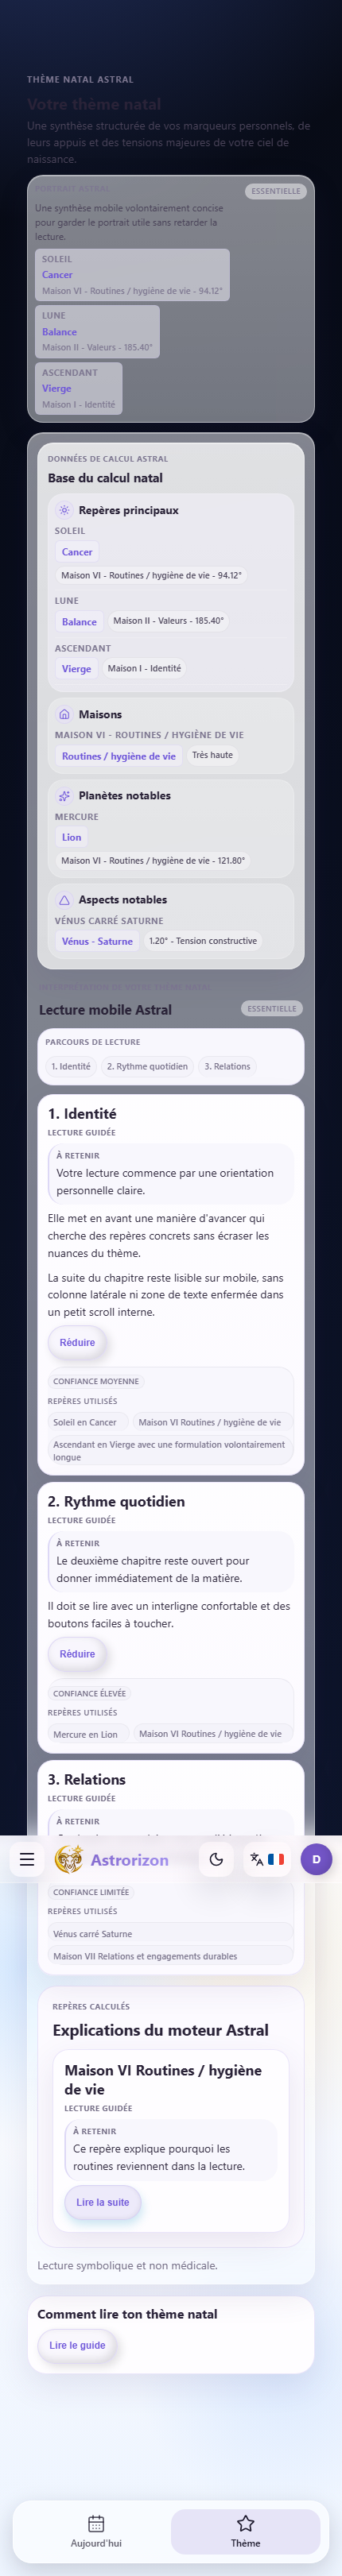
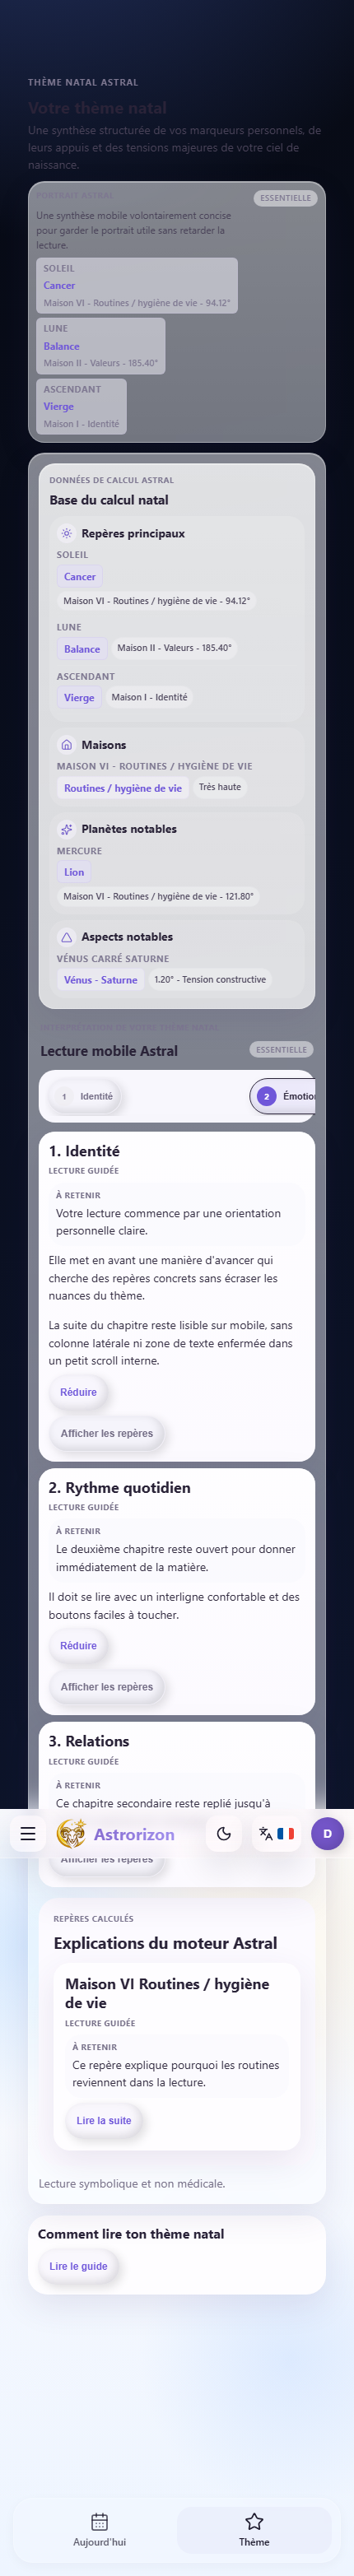
refine natal mobile styling

diff --git a/frontend/src/pages/NatalChartPage.css b/frontend/src/pages/NatalChartPage.css
@@ -13,11 +13,11 @@
   --natal-surface-reading: color-mix(in srgb, var(--color-token-rgb-255-255-255) 86%, var(--color-token-rgb-248-243-255) 14%);
   --natal-surface-reading-soft: color-mix(in srgb, var(--color-token-rgb-255-255-255) 72%, var(--color-token-rgb-244-237-255) 28%);
   --natal-surface-reading-muted: color-mix(in srgb, var(--premium-accent-purple-strong) 5%, var(--color-token-rgb-255-255-255) 95%);
-  --natal-border-data: var(--premium-glass-border-soft);
-  --natal-border-reading: color-mix(in srgb, var(--premium-accent-purple-strong) 14%, var(--premium-glass-border-soft));
-  --natal-border-section: var(--premium-glass-border);
-  --natal-border-block: var(--premium-glass-border-soft);
-  --natal-border-accent: color-mix(in srgb, var(--premium-accent-purple-strong) 20%, var(--premium-glass-border-soft));
+  --natal-border-data: color-mix(in srgb, var(--premium-glass-border-soft) 62%, transparent);
+  --natal-border-reading: color-mix(in srgb, var(--premium-accent-purple-strong) 9%, var(--premium-glass-border-soft) 56%, transparent);
+  --natal-border-section: color-mix(in srgb, var(--premium-glass-border) 68%, transparent);
+  --natal-border-block: color-mix(in srgb, var(--premium-glass-border-soft) 58%, transparent);
+  --natal-border-accent: color-mix(in srgb, var(--premium-accent-purple-strong) 14%, var(--premium-glass-border-soft) 54%, transparent);
   --natal-radius-section: var(--premium-radius-card);
   --natal-radius-block: var(--radius-lg);
   --natal-radius-badge: var(--radius-full);
@@ -44,6 +44,7 @@
   --natal-type-reading-text-size: var(--natal-type-body-size);
   --natal-type-reading-text-weight: var(--type-body-weight);
   --natal-type-reading-text-line-height: var(--natal-type-body-line-height);
+  --natal-progress-peek: 34px;
   font-family: var(--font-family-base);
 }
 
@@ -61,17 +62,30 @@
   --natal-surface-reading: color-mix(in srgb, var(--premium-glass-surface-2) 88%, var(--premium-accent-purple-strong) 12%);
   --natal-surface-reading-soft: color-mix(in srgb, var(--premium-glass-surface-2) 82%, var(--premium-accent-purple-strong) 18%);
   --natal-surface-reading-muted: color-mix(in srgb, var(--premium-glass-surface-2) 90%, var(--premium-accent-purple-strong) 10%);
-  --natal-border-data: var(--premium-glass-border);
-  --natal-border-reading: color-mix(in srgb, var(--premium-accent-purple-strong) 18%, var(--premium-glass-border));
-  --natal-border-section: var(--premium-glass-border);
-  --natal-border-block: var(--premium-glass-border);
-  --natal-border-accent: color-mix(in srgb, var(--premium-accent-purple-strong) 24%, var(--premium-glass-border));
+  --natal-border-data: color-mix(in srgb, var(--premium-glass-border) 72%, transparent);
+  --natal-border-reading: color-mix(in srgb, var(--premium-accent-purple-strong) 12%, var(--premium-glass-border) 58%, transparent);
+  --natal-border-section: color-mix(in srgb, var(--premium-glass-border) 76%, transparent);
+  --natal-border-block: color-mix(in srgb, var(--premium-glass-border) 64%, transparent);
+  --natal-border-accent: color-mix(in srgb, var(--premium-accent-purple-strong) 16%, var(--premium-glass-border) 60%, transparent);
   --natal-badge-key-surface: var(--natal-surface-chip);
   --natal-badge-detail-surface: var(--natal-surface-block);
   --natal-badge-status-surface: var(--natal-surface-block);
   --natal-badge-meta-surface: var(--natal-surface-reading-muted);
   --natal-text-reading: color-mix(in srgb, var(--premium-text-strong) 88%, var(--premium-text-main) 12%);
   --natal-text-reading-muted: color-mix(in srgb, var(--premium-text-meta) 88%, var(--premium-text-main) 12%);
+}
+
+@media (max-width: 768px) {
+  body:has(.is-natal-page) .bottom-nav {
+    bottom: calc(var(--app-mobile-nav-inset) + env(safe-area-inset-bottom));
+    border-color: color-mix(in srgb, var(--color-nav-border) 30%, transparent);
+    background: color-mix(in srgb, var(--color-nav-glass) 28%, transparent);
+    box-shadow: 0 4px 14px color-mix(in srgb, var(--premium-text-strong) 4%, transparent);
+  }
+
+  body:has(.is-natal-page) .bottom-nav__item--active {
+    background: color-mix(in srgb, var(--color-nav-active-bg) 34%, transparent);
+  }
 }
 
 .page-layout.natal-page-container .page-layout__main {
@@ -1845,7 +1859,7 @@
   }
 
   .natal-reading__progress li {
-    flex: 0 0 auto;
+    flex: 0 0 clamp(156px, calc(100% - var(--natal-progress-peek)), 240px);
     min-height: 0;
     padding: 0;
     scroll-snap-align: start;

diff --git a/frontend/src/tests/theme-tokens.test.ts b/frontend/src/tests/theme-tokens.test.ts
@@ -149,6 +149,24 @@ describe("theme.css validation (Static Analysis)", () => {
     expect(natalChartPageCssContent).toMatch(/\.natal-data-pill\s*\{[\s\S]*background:\s*var\(--natal-badge-meta-surface\)/)
     expect(natalChartPageCssContent).toMatch(/\.natal-data-card\s*\{[\s\S]*background:\s*var\(--natal-surface-block\)/)
   })
+
+  it("conserve le peek mobile volontaire du parcours /natal et attenue la bottom nav", () => {
+    const natalBottomNavRule = natalChartPageCssContent.match(
+      /body:has\(\.is-natal-page\) \.bottom-nav\s*\{([^}]*)\}/,
+    )?.[1]
+
+    expect(natalChartPageCssContent).toContain("--natal-progress-peek: 34px")
+    expect(natalChartPageCssContent).toMatch(
+      /\.natal-reading__progress li\s*\{[\s\S]*flex:\s*0 0 clamp\(156px,\s*calc\(100% - var\(--natal-progress-peek\)\),\s*240px\)/,
+    )
+    expect(natalBottomNavRule).toContain("border-color: color-mix(in srgb, var(--color-nav-border) 30%, transparent)")
+    expect(natalBottomNavRule).toContain("background: color-mix(in srgb, var(--color-nav-glass) 28%, transparent)")
+    expect(natalBottomNavRule).toContain("box-shadow: 0 4px 14px color-mix(in srgb, var(--premium-text-strong) 4%, transparent)")
+    expect(natalBottomNavRule).not.toContain("opacity:")
+    expect(natalChartPageCssContent).toMatch(
+      /body:has\(\.is-natal-page\) \.bottom-nav__item--active\s*\{[\s\S]*background:\s*color-mix\(in srgb,\s*var\(--color-nav-active-bg\)\s*34%,\s*transparent\)/,
+    )
+  })
 })
 
 describe("AC#2 - Valeurs exactes des tokens critiques (story 17-10)", () => {